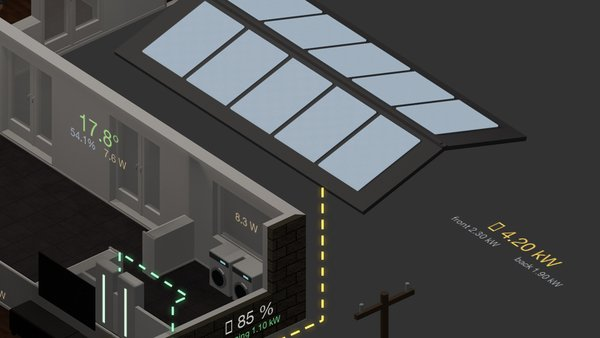
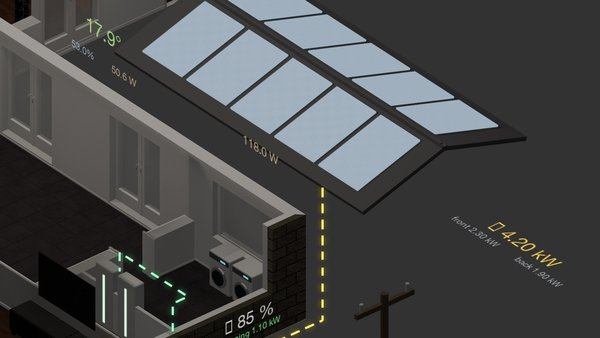
Refresh dashboard screenshots: stats above the outer walls, new en-suite and master bedroom

diff --git a/_posts/2026-11-24-3d-floorplan-dashboard.md b/_posts/2026-11-24-3d-floorplan-dashboard.md
@@ -16,7 +16,7 @@ and battery are doing, and whether the car is plugged in. So I built a 3D model 
 
 ![The finished dashboard on a winter evening]({{ "/assets/images/projects/floorplan/evening.jpg" | relative_url }})
 *An evening view. Lights glow where they're actually on, orange outlines mark the rooms that are heating, and the
-temperature, humidity and power for each room sit on its wall.*
+temperature, humidity and power for each room float just above its outer wall.*
 
 ## What it shows
 
@@ -24,7 +24,7 @@ Everything on the picture is driven by live Home Assistant state:
 
 - **Lights.** Every light in the house glows in its real position: ceiling spots, lamps, a mirror with bulbs round it,
   even the light inside a cupboard. Turn two on in the same room and their glows add up, just like real light.
-- **Heating.** Each room's temperature is written on its wall. The colour runs from blue (cold) through green to
+- **Heating.** Each room's temperature floats just above its outer wall. The colour runs from blue (cold) through green to
   orange-red (warm), and a glowing orange line traces round the top of the walls while that room's radiator valve is open.
 - **Presence.** A thinner white line runs round the en-suite while its mmWave presence sensor sees someone.
 - **Energy.** The solar panels glow brighter as output rises, the battery cabinet shows its charge level, and animated
@@ -108,8 +108,8 @@ screen = P0 + x·ux + y·uy + z·uz
 
 That one formula positions everything that isn't a pre-rendered image:
 
-- **Labels** are `state-label` elements with a CSS `matrix()` transform that lays the text flat onto a wall or floor, so
-  it looks painted on.
+- **Labels** are `state-label` elements with a CSS `matrix()` transform that lays the text in a wall's plane. Each room's
+  temperature, humidity and power float just above its outer wall, so they line up with the house without covering it.
 - **Tap areas** are invisible images clipped to each room's outline with CSS `clip-path`, stacked back to front so the
   nearer room wins where two rooms share a wall.
 - **The blind** is a small custom element that draws an SVG in the window's wall plane, using the same projection as an
